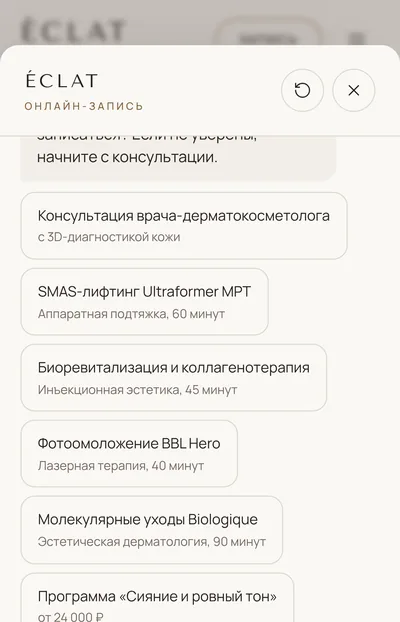
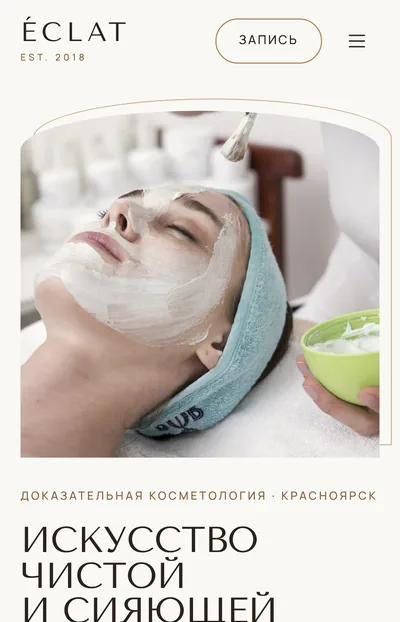
ÉCLAT: фото на самом сайте, новая карточка в портфолио
Claude-Session: https://claude.ai/code/session_018mhmygV9V4rn6wE29unoZj

diff --git a/index.html b/index.html
@@ -499,8 +499,8 @@ html.intro{overflow:hidden}
           <div class="info"><div class="mt"><span class="tag">Концепт-проект, 2026</span><span class="live">Работает в браузере</span></div><h3>ORLO: промо-сайт и веб-консоль платформы ИИ-вычислений</h3><p><b>Задача:</b> показать сложный B2B-продукт для инженеров так, чтобы ценность была понятна за минуту, а сам интерфейс можно было попробовать прямо на сайте, без регистрации и демо-звонка.</p><ul class="did"><li><b>Позиционирование и тексты:</b> название, оффер «вычисления рядом с данными» и три аргумента в цифрах</li><li><b>Первый экран:</b> собственная 3D-анимация на canvas: сетчатая «грань», по рёбрам которой бегут импульсы данных, без видео и без швов</li><li><b>Веб-консоль:</b> живой график нагрузки, управление узлами кластеров и терминал с командами</li><li><b>Продуктовые блоки:</b> интерактивная схема архитектуры с расчётом задержки и стоимости, документация, тарифы</li><li><b>Разработка:</b> Tailwind и чистый JS, адаптив под телефон, управление с клавиатуры</li></ul></div>
         </a>
         <a class="w w-aura rv" href="works/eclat/">
-          <div class="pic"><img src="img/eclat.webp" srcset="img/eclat-800.webp 800w, img/eclat.webp 1440w" sizes="(max-width:960px) calc(100vw - 32px), 740px" alt="Сайт клиники ÉCLAT с открытой онлайн-записью: бот предлагает выбрать день и время" style="object-position:92% 0" width="1440" height="900" loading="lazy" decoding="async"><span class="mshot"><img src="img/eclat-m-400.webp" alt="" width="400" height="622" loading="lazy" decoding="async"></span><span class="go"><svg class="ph" aria-hidden="true"><use href="#ph-arrow-up-right"/></svg></span></div>
-          <div class="info"><div class="mt"><span class="tag">Концепт-проект, 2026</span><span class="live">Живой сайт</span></div><h3>ÉCLAT: сайт клиники эстетической медицины с онлайн-записью</h3><p><b>Задача:</b> превратить интерес к процедуре в запись. Человек выбирает процедуру, день и свободное время в чате и оставляет телефон, не дожидаясь ответа администратора.</p><ul class="did"><li>Структура и тексты для косметологии: направления, авторские программы, этапы визита, клуб привилегий</li><li>Онлайн-запись в формате чата: процедура, свободные окна по дням, проверка заявки, отправка на почту</li><li>Требования к медицинскому сайту: предупреждение о противопоказаниях, политика конфиденциальности</li><li>Шаблон под любую клинику: контент и настройки собраны в одном блоке</li><li>Вёрстка и код без библиотек, адаптив: на телефоне запись открывается шторкой</li></ul></div>
+          <div class="pic"><img src="img/eclat.webp" srcset="img/eclat-800.webp 800w, img/eclat.webp 1440w" sizes="(max-width:960px) calc(100vw - 32px), 740px" alt="Первый экран сайта клиники эстетической медицины ÉCLAT" style="object-position:40% 0" width="1440" height="900" loading="lazy" decoding="async"><span class="mshot"><img src="img/eclat-m-400.webp" alt="" width="400" height="622" loading="lazy" decoding="async"></span><span class="go"><svg class="ph" aria-hidden="true"><use href="#ph-arrow-up-right"/></svg></span></div>
+          <div class="info"><div class="mt"><span class="tag">Концепт-проект, 2026</span><span class="live">Живой сайт</span></div><h3>ÉCLAT: сайт клиники эстетической медицины с онлайн-записью</h3><p><b>Задача:</b> превратить интерес к процедуре в запись без звонка администратору.</p><ul class="did"><li>Структура и тексты: направления, авторские программы, этапы визита, клуб привилегий</li><li>Онлайн-запись в чате: процедура, свободные окна по дням, заявка на почту</li><li>Требования медицинского сайта: противопоказания и политика данных</li><li>Вёрстка и код без библиотек, адаптив, на телефоне запись шторкой</li></ul></div>
         </a>
         
         <a class="w w-7 rv" href="works/smartglobal/">

diff --git a/works/eclat/index.html b/works/eclat/index.html
@@ -513,25 +513,25 @@ const CONFIG = {
   protocols: [
     { title: "SMAS-лифтинг Ultraformer MPT", duration: "60 минут", tag: "Аппаратная подтяжка",
       desc: "Сфокусированный ультразвук воздействует на глубокие слои кожи. Зоны и количество линий врач определяет на консультации.",
-      img: "https://images.unsplash.com/photo-1570172619644-dfd03ed5d881?auto=format&fit=crop&w=600&q=80" },
+      img: "img/1570172619644-600.webp" },
     { title: "Биоревитализация и коллагенотерапия", duration: "45 минут", tag: "Инъекционная эстетика",
       desc: "Инъекции препаратов гиалуроновой кислоты или коллагена. Препарат и схему подбирает врач после осмотра.",
-      img: "https://images.unsplash.com/photo-1512290923902-8a9f81dc236c?auto=format&fit=crop&w=600&q=80" },
+      img: "img/1512290923902-600.webp" },
     { title: "Фотоомоложение BBL Hero", duration: "40 минут", tag: "Лазерная терапия",
       desc: "Широкополосный свет для работы с пигментацией и сосудистым рисунком. Проводится курсом, в период низкой солнечной активности.",
-      img: "https://images.unsplash.com/photo-1522337360788-8b13dee7a37e?auto=format&fit=crop&w=600&q=80" },
+      img: "img/1522337360788-600.webp" },
     { title: "Молекулярные уходы Biologique", duration: "90 минут", tag: "Эстетическая дерматология",
       desc: "Профессиональные уходы по протоколам Biologique Recherche, подбираются по состоянию кожи в день визита.",
-      img: "https://images.unsplash.com/photo-1540555700478-4be289fbecef?auto=format&fit=crop&w=600&q=80" }
+      img: "img/1540555700478-600.webp" }
   ],
 
   programs: [
     { title: "Сияние и ровный тон", tag: "Glass Skin", text: "BBL Forever Young, гидропилинг и пептидная маска.", price: "от 24 000 ₽",
-      img: "https://images.unsplash.com/photo-1596755389378-c31d21fd1273?auto=format&fit=crop&w=800&q=80" },
+      img: "img/1596755389378-800.webp" },
     { title: "Архитектура контуров лица", tag: "Контуры", text: "Векторный лифтинг Радиесс и аппаратный дренаж.", price: "от 42 000 ₽",
-      img: "https://images.unsplash.com/photo-1515377905703-c4788e51af15?auto=format&fit=crop&w=800&q=80" },
+      img: "img/1515377905703-800.webp" },
     { title: "Глубокое клеточное обновление", tag: "Обновление", text: "Экзосомальная терапия и микроигольчатый RF-лифтинг.", price: "от 38 000 ₽",
-      img: "https://images.unsplash.com/photo-1761718210089-ba3bb5ccb54f?auto=format&fit=crop&w=800&q=80" }
+      img: "img/1761718210089-800.webp" }
   ],
 
   journey: [
@@ -598,10 +598,10 @@ document.querySelectorAll('i[data-lucide]').forEach(function(i){var n=i.getAttri
   /* ---------- контент ---------- */
   // проверенные фото на замену, если ссылка из настроек не открылась
   const FALLBACK = [
-    'https://images.unsplash.com/photo-1761718210089-ba3bb5ccb54f?auto=format&fit=crop&w=900&q=80',
-    'https://images.unsplash.com/photo-1643684391140-c5056cfd3436?auto=format&fit=crop&w=900&q=80',
-    'https://images.unsplash.com/photo-1731514771613-991a02407132?auto=format&fit=crop&w=900&q=80',
-    'https://images.unsplash.com/photo-1570172619644-dfd03ed5d881?auto=format&fit=crop&w=900&q=80'
+    'img/1761718210089-900.webp',
+    'img/1643684391140-900.webp',
+    'img/1731514771613-900.webp',
+    'img/1570172619644-900.webp'
   ];
   $$('[data-c]').forEach(el => { const v = C[el.dataset.c]; if (v != null) el.textContent = v; });
 
@@ -617,8 +617,8 @@ document.querySelectorAll('i[data-lucide]').forEach(function(i){var n=i.getAttri
     const tried = new Set([src]);
     img.src = src; box.appendChild(img);
   }
-  photo($('[data-photo="hero"]'), 'https://images.unsplash.com/photo-1616394584738-fc6e612e71b9?auto=format&fit=crop&w=1400&q=85', 'Уход за кожей лица', true);
-  photo($('[data-photo="clinic"]'), 'https://images.unsplash.com/photo-1629909613654-28e377c37b09?auto=format&fit=crop&w=1000&q=85', 'Кабинет клиники');
+  photo($('[data-photo="hero"]'), 'img/1616394584738-1400.webp', 'Уход за кожей лица', true);
+  photo($('[data-photo="clinic"]'), 'img/1629909613654-1000.webp', 'Кабинет клиники');
 
   $('#protoCount').textContent = `${pad(C.protocols.length)} направления`;
   $('#protoList').innerHTML = C.protocols.map((p, i) => `
